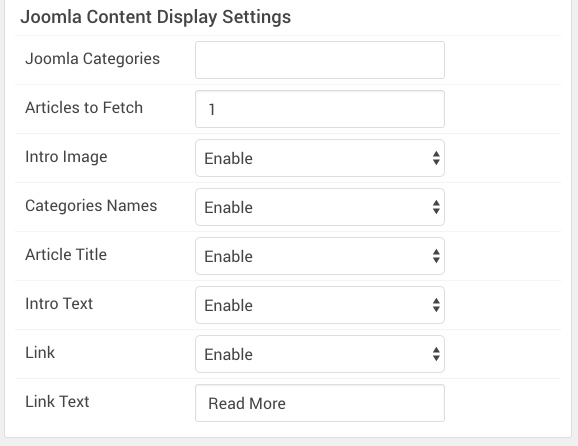
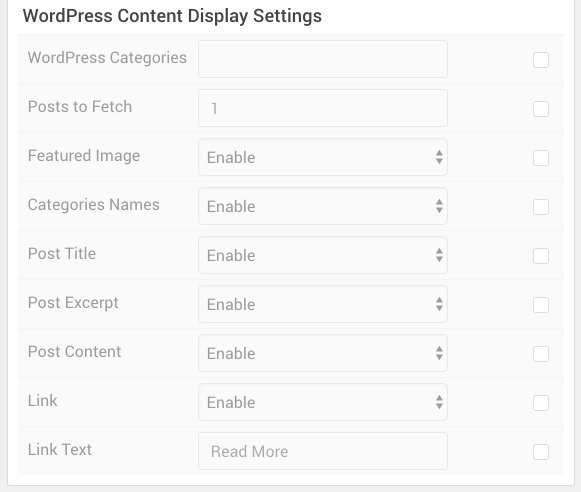
WordPress - Topaz - Particle CMS Updates

diff --git a/Docs/wordpress/themes/topaz/particle_book.md b/Docs/wordpress/themes/topaz/particle_book.md
@@ -46,14 +46,14 @@ The rest of this content is set up as an item. Items can be added in the **Block
 
 ![](assets/particle_book1.jpg)
 
-:   1. **Article - WordPress Category** [5%, 5%, se]
-    2. **Article - Article Intro Text** [27%, 5%, se]
-    3. **Article - Article Content** [43%, 5%, se]
-    4. **Article - Read More Label** [77%, 5%, se]
-    5. **Article - Intro Image** [5%, 53%, se]
-    6. **Article - Intro Image Alt Text** [67%, 65%, se]
-    7. **Article - Intro Image Caption** [75%, 53%, se]
-    8. **Article - Title** [15%, 5%, se]
+:   1. **Item - Category** [5%, 5%, se]
+    2. **Item - Intro** [27%, 5%, se]
+    3. **Item - Content** [43%, 5%, se]
+    4. **Item - Read More Label** [77%, 5%, se]
+    5. **Item - Intro Image** [5%, 53%, se]
+    6. **Item - Intro Image Alt Text** [67%, 65%, se]
+    7. **Item - Intro Image Caption** [75%, 53%, se]
+    8. **Item - Title** [15%, 5%, se]
 
 When **WordPress** is selected as the **Content Source**, the article's title becomes the big title in the upper-left area of the particle. The text under the image to the right is made up of the **Alt Text** and **Image Caption** for the **Intro Image** that is assigned to the article.
 
@@ -75,16 +75,19 @@ These items only appear on the front end if you select **Particle** as the **Con
 
 ![](assets/particle_book3.jpg)
 
-| Option            | Description                                                                                     |
-| :-----            | :-----                                                                                          |
-| Category          | Enter the category you would like to appear in the particle.                                    |
-| Intro             | Enter the introductory text you would like to appear in the particle.                           |
-| Content           | Enter the content you would like to appear in the particle.                                     |
-| Read More Label   | Enter the text you would like to have link to the link you set in the **Read More Link** field. |
-| Image             | Select the image you would like to have appear on the right side of the particle.               |
-| Image Title       | Enter a title for the image. This appears below the image.                                      |
-| Image Description | Enter a description for the image. This appears right below the title under the image.          |
-| Particle Name     | Enter a name for the item. This name appears on the front end.                                  |
+| Option            | Description                                                                                                     |
+| :-----            | :-----                                                                                                          |
+| Category          | Enter the category you would like to appear in the particle.                                                    |
+| Intro             | Enter the introductory text you would like to appear in the particle.                                           |
+| Content           | Enter the content you would like to appear in the particle.                                                     |
+| Read More Label   | Enter the text you would like to have link to the link you set in the **Read More Link** field.                 |
+| Read More Link    | Enter a URL you would like the read more link to go to.                                                         |
+| Read More Target  | Enter the target you would like the read more link to be opened to. You can choose: **Self** or **New Window**. |
+| Read More Classes | Enter the CSS class(es) you would like to have applied to the item.                                             |
+| Image             | Select the image you would like to have appear on the right side of the particle.                               |
+| Image Title       | Enter a title for the image. This appears below the image.                                                      |
+| Image Description | Enter a description for the image. This appears right below the title under the image.                          |
+| Particle Name     | Enter a name for the item. This name appears on the front end.                                                  |
 
 ### CMS Options
 
@@ -92,13 +95,14 @@ These options are only useful if you select **WordPress** as the **Content Sourc
 
 ![](assets/demo_book4.jpg)
 
-| Option            | Description                                                                     |
-| :-----            | :-----                                                                          |
-| WordPress Categories | Enter the categorie(s) you would like to appear in the particle.                |
-| Articles to Fetch | Enter the number of articles you would like to have loaded in the particle.     |
-| Intro Image       | Enable or disable the intro image appearing in the particle.                    |
-| Categories Names  | Enable or disable the category of the article in the particle.                  |
-| Article Title     | Enable or disable the title of the article appearing in the particle.           |
-| Intro Text        | Enable or disable the **Intro Text** appearing under the image in the particle. |
-| Link              | Enable or disable the read more link.                                           |
-| Link Text         | Enter the text you would like to appear in the Read More link.                  |
+| Option               | Description                                                                                                    |
+| :-----               | :-----                                                                                                         |
+| WordPress Categories | Enter the categorie(s) you would like to appear in the particle.                                               |
+| Posts to Fetch       | Enter the number of posts you would like to have loaded in the particle.                                       |
+| Featured Image       | Enable or disable the featured image appearing in the particle.                                                |
+| Categories Names     | Enable or disable the category of the article in the particle.                                                 |
+| Post Title           | Enable or disable the title of the post appearing in the particle.                                             |
+| Post Excerpt         | Enable or disable the content placed in the **Post Excerpt** area of the post to be displayed in the particle. |
+| Post Content         | Enable or disable the main content of the post appearing under the image in the particle.                      |
+| Link                 | Enable or disable the read more link.                                                                          |
+| Link Text            | Enter the text you would like to appear in the Read More link.                                                 |
